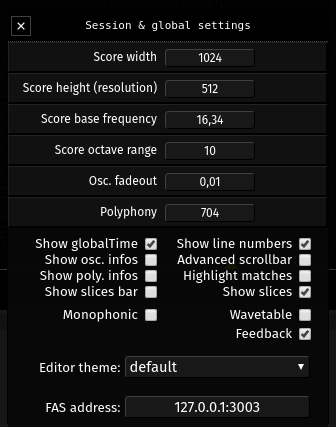
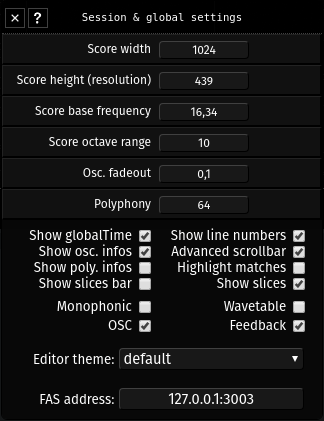
update documentation

diff --git a/client/index.html b/client/index.html
@@ -445,7 +445,7 @@ in vec2 position; void main() { gl_Position = vec4(position, 0, 1); }
                     </div>
                     <div class="fs-ck-container">
                         <label class="fs-ck-label">
-                            <div>OSC out</div>&nbsp;
+                            <div>OSC</div>&nbsp;
                             <input id="fs_settings_ck_oscout" type="checkbox">
                         </label>
                     </div>
